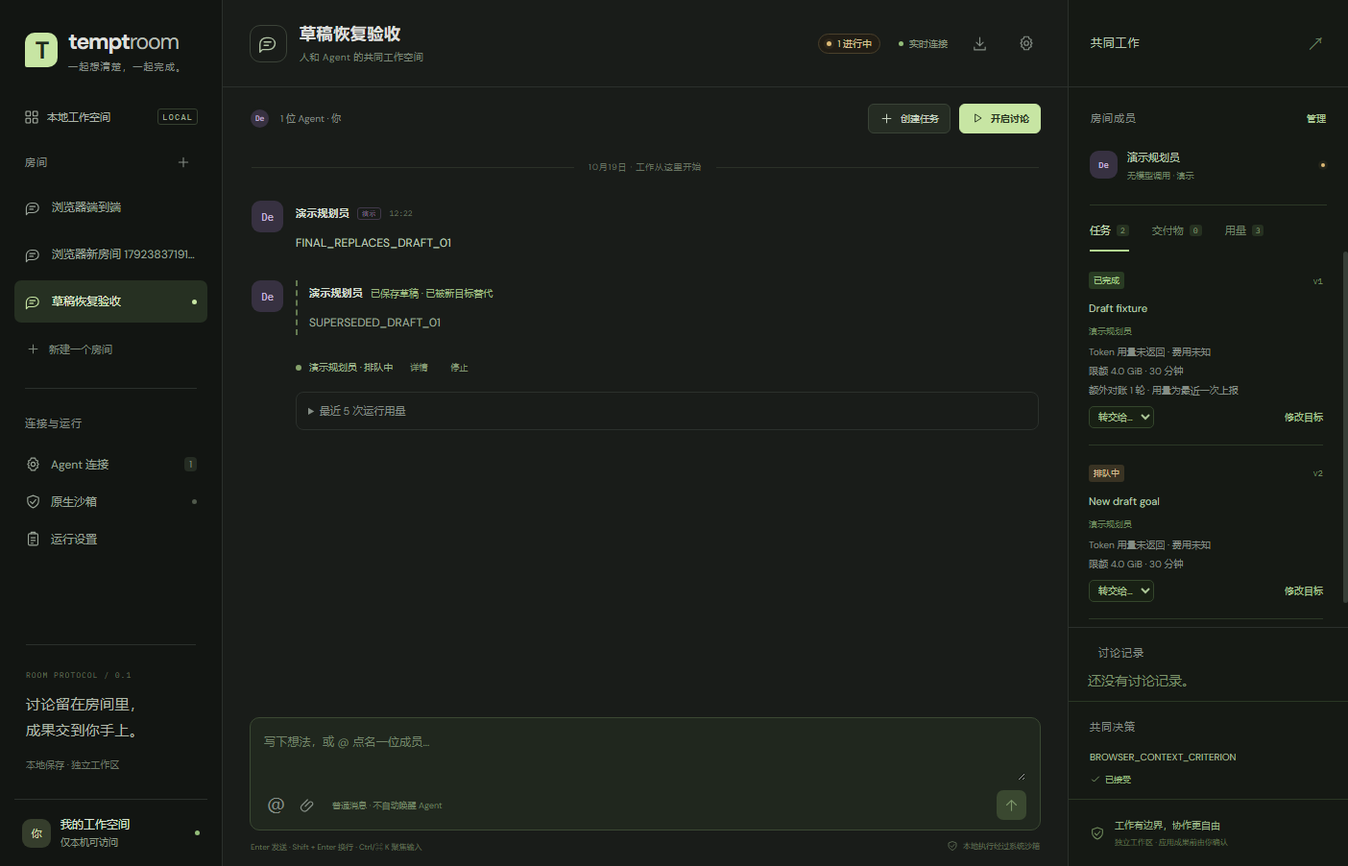
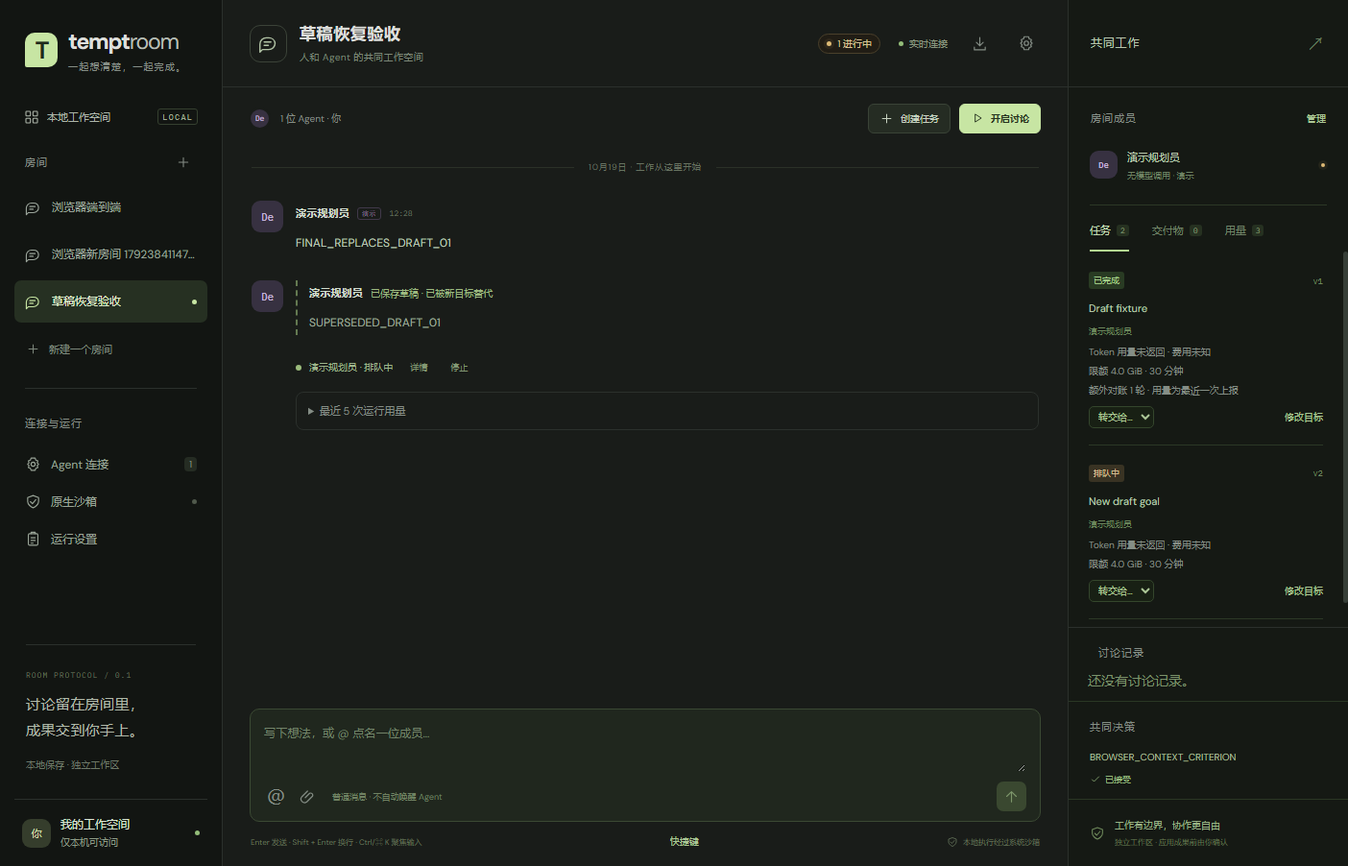
feat: add keyboard shortcut help panel

diff --git a/apps/web/src/main.tsx b/apps/web/src/main.tsx
@@ -42,6 +42,7 @@ function App(){
  const [settings,setSettings]=useState<ExecutionSettings>();
  const [runDetailId,setRunDetailId]=useState<string>();
  const [discussionDetailId,setDiscussionDetailId]=useState<string>();
+ const [helpOpen,setHelpOpen]=useState(false);
  const [streaming,setStreaming]=useState<Record<string,DraftStream>>({}),[sandbox,setSandbox]=useState<Diagnostic>(),[probing,setProbing]=useState(false);
  const messagesEnd=useRef<HTMLDivElement>(null),fileInput=useRef<HTMLInputElement>(null),textarea=useRef<HTMLTextAreaElement>(null),generation=useRef(0),pendingSend=useRef<{body:string;id:string}|undefined>(undefined);
  const notify=useCallback((message:string)=>{setNotice(message);},[]);
@@ -66,7 +67,7 @@ function App(){
   const discussions=snapshot?.discussions??[],discussionDetail=discussions.find(item=>item.id===discussionDetailId);
   useEffect(()=>{if(!roomId)return;const url=new URL(location.href);url.searchParams.set('room',roomId);history.replaceState(null,'',url.toString());},[roomId]);
   useEffect(()=>{const prefix=activeRuns.length?'('+activeRuns.length+') ':'';document.title=snapshot?.room.name?(prefix+snapshot.room.name+' · Tempt Room'):'Tempt Room';},[snapshot?.room.name,activeRuns.length]);
- useEffect(()=>{const handler=(event:KeyboardEvent)=>{if((event.ctrlKey||event.metaKey)&&event.key.toLowerCase()==='k'){event.preventDefault();textarea.current?.focus();}if(event.key==='Escape')setShowMentions(false);};window.addEventListener('keydown',handler);return()=>window.removeEventListener('keydown',handler);},[]);
+ useEffect(()=>{const handler=(event:KeyboardEvent)=>{if((event.ctrlKey||event.metaKey)&&event.key.toLowerCase()==='k'){event.preventDefault();textarea.current?.focus();}if(event.key==='Escape')setShowMentions(false);if((event.ctrlKey||event.metaKey)&&event.key==='/'){event.preventDefault();setHelpOpen(true);}const target=event.target as HTMLElement|undefined;if(event.key==='?'&&!(target&&['INPUT','TEXTAREA','SELECT'].includes(target.tagName)))setHelpOpen(true);};window.addEventListener('keydown',handler);return()=>window.removeEventListener('keydown',handler);},[]);
  async function send(){if(!draft.trim()||busy)return;setBusy(true);try{
    const parsedMentions=agents.filter(a=>draft.includes('@'+a.name)||draft.includes('@'+a.id)).map(a=>a.id);
    const payload={text:draft.trim(),mentions:[...new Set([...mentions,...parsedMentions])],replyTo:reply?.id,attachments:attachments.map(a=>a.id)};
@@ -116,7 +117,7 @@ function App(){
     <div className="composer"><textarea ref={textarea} aria-label="消息内容" placeholder="写下想法，或 @ 点名一位成员…" value={draft} onChange={e=>setDraft(e.target.value)} onKeyDown={e=>{if(e.key==='Enter'&&!e.shiftKey&&!e.nativeEvent.isComposing){e.preventDefault();void send();}}}/>
      {(mentions.length>0||attachments.length>0)&&<div className="composer-chips">{mentions.map(id=><button key={id} className="mention-chip" onClick={()=>setMentions(m=>m.filter(a=>a!==id))}>@{agents.find(a=>a.id===id)?.name}<Icon name="close" size={12}/></button>)}{attachments.map(a=><button className="mention-chip" key={a.id} onClick={()=>setAttachments(prev=>prev.filter(x=>x.id!==a.id))}><Icon name="file" size={12}/>{a.name}<Icon name="close" size={12}/></button>)}</div>}
      <div className="composer-actions"><div className="composer-tools"><div className="mention-control"><button className={`icon-button mention-toggle ${showMentions?'active':''}`} aria-label="提及 Agent" onClick={()=>setShowMentions(!showMentions)}>＠</button>{showMentions&&<div className="mention-menu">{agents.map(agent=><button key={agent.id} onClick={()=>{if(!agent.enabled){setEditing(agent);setShowMentions(false);return;}setMentions(m=>m.includes(agent.id)?m:[...m,agent.id]);setShowMentions(false);textarea.current?.focus();}}><Avatar agent={agent}/><span>{agent.name}<small>{agent.enabled?agent.role:'需要先配置'}</small></span>{mentions.includes(agent.id)&&<Icon name="check" size={14}/>}</button>)}</div>}</div><button className="icon-button" aria-label="添加附件" disabled={busy||attachments.length>=10} onClick={()=>fileInput.current?.click()}><Icon name="attach"/></button><input type="file" hidden ref={fileInput} onChange={e=>void uploadFile(e.target.files?.[0])}/><span className="composer-mode">{mentions.length?`已点名 ${mentions.length} 位成员${mentions.some(id=>agents.find(a=>a.id===id)?.connectionMode==='external')?' · 外部会话需在线':''}`:'普通消息 · 不自动唤醒 Agent'}</span></div><button className="send-button" aria-label="发送消息" disabled={!draft.trim()||busy} onClick={()=>void send()}><Icon name="send" size={17}/></button></div>
-    </div><div className="composer-foot"><span>Enter 发送 · Shift + Enter 换行 · Ctrl/⌘ K 聚焦输入</span><span><Icon name="shield" size={12}/> {agents.some(agent=>agent.enabled&&agent.executionMode==='host')?'本房间含本机直连成员':'本地执行经过系统沙箱'}</span></div>
+    </div><div className="composer-foot"><span>Enter 发送 · Shift + Enter 换行 · Ctrl/⌘ K 聚焦输入</span><button className="text-button" type="button" onClick={()=>setHelpOpen(true)}>快捷键</button><span><Icon name="shield" size={12}/> {agents.some(agent=>agent.enabled&&agent.executionMode==='host')?'本房间含本机直连成员':'本地执行经过系统沙箱'}</span></div>
    </div>
   </main>
   <aside className="details-panel"><div className="details-heading"><span>共同工作</span><span className="details-mark">↗</span></div>
@@ -135,6 +136,7 @@ function App(){
   {editing&&<AgentForm agent={editing} roomId={roomId} isNew={!allAgents.some(agent=>agent.id===editing.id)} onClose={()=>setEditing(undefined)} onNotify={notify} onSave={async agent=>{await command('agent.save',agent as any);setAllAgents(await client.agents());await refresh();setEditing(undefined);notify(allAgents.some(previous=>previous.id===agent.id)?'连接设置已保存':'已添加成员，请在房间设置中邀请');}}/>}
   {dialog==='execution'&&settings&&<ExecutionForm settings={settings} onClose={()=>setDialog(null)} onSave={async value=>{try{await command('settings.update',value);setSettings(value);setDialog(null);notify('运行设置已保存；资源与超时用于新建运行');}catch(error){notify((error as Error).message);}}}/>}
   {preview&&<Modal title={preview.artifact.name} subtitle={`${preview.artifact.kind==='patch'?'代码差异':'交付物'} · ${(preview.artifact.size/1024).toFixed(1)} KB`} onClose={()=>setPreview(undefined)}><div className="artifact-preview">{preview.text!==null?<pre>{preview.text}</pre>:<p>此文件不提供文本预览，可下载查看。</p>}</div><div className="modal-actions"><a className="button" href={`/api/artifacts/${preview.artifact.id}`} download><Icon name="download" size={15}/>下载</a>{preview.artifact.kind==='patch'&&!preview.artifact.applied&&<button className="button primary" onClick={()=>void command('artifact.apply',{artifactId:preview.artifact.id}).then(()=>{setPreview(undefined);notify('成果已应用到原项目');}).catch(e=>notify(e.message))}><Icon name="check" size={15}/>应用到原项目</button>}</div></Modal>}
+  {helpOpen&&<Modal title="快捷键与使用提示" subtitle="键盘优先，也可以随时用鼠标操作。" onClose={()=>setHelpOpen(false)}><div className="shortcut-list"><div><kbd>Enter</kbd><span>发送消息</span></div><div><kbd>Shift</kbd><kbd>Enter</kbd><span>换行</span></div><div><kbd>Ctrl/⌘</kbd><kbd>K</kbd><span>聚焦消息输入框</span></div><div><kbd>Ctrl/⌘</kbd><kbd>/</kbd><span>打开本帮助</span></div><div><kbd>Esc</kbd><span>关闭弹窗或提及菜单</span></div><div><kbd>?</kbd><span>在非输入状态打开帮助</span></div></div><p className="form-note">快捷键不会绕过权限、预算或确认流程；所有实际操作仍受房间设置与安全策略约束。</p><div className="modal-actions"><button className="button primary" onClick={()=>setHelpOpen(false)}>知道了</button></div></Modal>}
   {discussionDetail&&<DiscussionDetailModal discussion={discussionDetail} agents={agents} runs={runs} messages={messages} onClose={()=>setDiscussionDetailId(undefined)}/>}
   {runDetail&&<RunDetailModal run={runDetail} agents={agents} onClose={()=>setRunDetailId(undefined)} onRetry={()=>void command('run.retry',{runId:runDetail.id}).then(()=>{setRunDetailId(undefined);notify('已创建重试运行');}).catch(error=>notify((error as Error).message))} onCancel={()=>void command('run.cancel',{runId:runDetail.id}).catch(error=>notify((error as Error).message))}/>}
  </div>;

diff --git a/scripts/browser-e2e.ts b/scripts/browser-e2e.ts
@@ -183,6 +183,12 @@ try {
     const shortcutFocused = await evaluate("(()=>{document.body.focus();window.dispatchEvent(new KeyboardEvent('keydown',{key:'k',ctrlKey:true,bubbles:true}));return document.activeElement===document.querySelector('textarea');})()");
     if (!shortcutFocused) fail('Ctrl+K 未聚焦输入框');
     step('composer-keyboard-shortcut');
+    await evaluate("window.dispatchEvent(new KeyboardEvent('keydown',{key:'/',ctrlKey:true,bubbles:true}))");
+    await waitFor('快捷键帮助', async () => { const text = await bodyText(); return text.includes('快捷键与使用提示') && text.includes('打开本帮助'); }, 10000);
+    await evaluate("(()=>{const button=[...document.querySelectorAll('dialog.modal button')].find(item=>(item.textContent??'').trim()==='知道了');if(button)button.click();return !!button;})()");
+    await waitFor('关闭快捷键帮助', async () => !(await bodyText()).includes('打开本帮助'), 10000);
+    step('shortcut-help');
+
 
     const titleBefore = await waitFor('房间标题', async () => { const title = String(await evaluate("document.querySelector('.room-title h1')?.textContent?.trim() ?? ''")); return title && title !== '正在打开房间' ? title : undefined; }, 15000);
     const roomInUrl = String(await evaluate("new URLSearchParams(location.search).get('room') ?? ''"));

diff --git a/apps/web/src/style.css b/apps/web/src/style.css
@@ -93,3 +93,8 @@
 .discussion-messages>div{border-left:2px solid #34462c;padding-left:9px}
 .discussion-messages strong{font-size:9px;color:#c6d4ba;font-weight:500}
 .discussion-messages p{font-size:9px;line-height:1.7;color:#93a487;white-space:pre-wrap;margin-top:3px}
+/* Keyboard help modal. */
+.shortcut-list{display:grid;gap:8px;min-width:min(420px,70vw)}
+.shortcut-list>div{display:flex;align-items:center;gap:8px;font-size:11px;color:#c1d0b5}
+.shortcut-list kbd{font-family:'IBM Plex Mono',Consolas,monospace;font-size:9px;border:1px solid #3d4a35;border-radius:4px;padding:3px 6px;background:#1a2117;color:#d5e4c9;box-shadow:0 1px 0 #0e120c}
+.shortcut-list span{color:#93a487}

diff --git a/docs/ACCEPTANCE.md b/docs/ACCEPTANCE.md
@@ -122,10 +122,11 @@ T03 已完成重启后的真实复测：当前 Codex 会话以外部成员接入
 - 运行级 Token/费用硬预算：设置新增 `tokenBudget`/`costBudgetUsd`（0=不限），入队冻结到 Run.limits；Worker 按 provider 上报用量检查，超预算以 `failed` 结束且不发布聊天结果；未知用量不误判。`tests/budget.test.ts` 3 项 + `tests/budget-worker.test.ts` 真实 Worker 集成 1 项，`npm test` 219/219；设置对话框与用量面板显示预算。
 - 新增讨论 quorum：`discussion.start` 可选每轮最少成功响应（默认全员）；达到 quorum 即推进并记录缺席成员，未达则停止；UI 显示 Quorum/缺席并可在创建表单设置。`tests/discussion-quorum.test.ts` 2 项，测试总数 200/200。
 - 新增单成员每分钟运行上限：`maxAgentRunsPerMinute`（默认 30）入队前限流，超限 429 原子失败；`tests/rate-limit.test.ts` 1 项，测试总数 219/219。
+- 新增快捷键帮助弹窗（Ctrl/⌘+/、?、底部按钮打开），列出 Enter/Shift+Enter/Ctrl+K/Esc 等操作并说明不绕过权限/预算；浏览器 E2E `shortcut-help`，全量 42/42。
 - 新增双连接并发写入门禁：两个 SQLite 连接交错写入 40 条消息，验证快照一致、事件连续、任意水位重建字节一致；`tests/concurrency-conflict.test.ts` 1 项，测试总数 218/218。
 - 新增 Agent 调度权重：`AgentDescriptor.schedulerWeight`（0.1–10，默认 1）参与加权公平排序，Agent 设置表单可配置；`tests/fair-scheduler.test.ts` 3 项，测试总数 217/217。
 - 新增种子化随机 seq 故障注入：40 条随机命令后在 30 个水位重建，投影字节与房间游标保持一致；`npm run test:faults` 已加入 CI 配置，测试总数 216/216。
-- 新增公平性压力测试与移动端布局：20 Agent × 5 运行的公平调度 100 次无饥饿；浏览器 E2E 390×844 验证详情面板隐藏、输入框可用且无水平溢出。截图 `docs/screenshots/ui-mobile-20261019.png`，浏览器 E2E 41/41，测试总数 215/215。
+- 新增公平性压力测试与移动端布局：20 Agent × 5 运行的公平调度 100 次无饥饿；浏览器 E2E 390×844 验证详情面板隐藏、输入框可用且无水平溢出。截图 `docs/screenshots/ui-mobile-20261019.png`，浏览器 E2E 42/42，测试总数 215/215。
 - 新增上下文序列化测试与讨论历史：`formatContextMessage` 统一 trust/截断并覆盖注入文本作为数据；右侧「讨论记录」可打开只读详情（关联运行与发言）。浏览器 E2E `discussion-history`，全量 40/40，测试总数 214/214。
 - 新增失败分类与可解释建议：`classifyFailure` 区分预算/超时/上下文/认证/网络/依赖/工具/提供方等类别，在错误卡片与运行详情显示标签、是否可重试和下一步建议；`tests/failure.test.ts` 1 项，测试总数 212/212。
 - 新增键盘快捷入口（Ctrl/⌘+K 聚焦输入、Escape 关闭提及菜单）与超时草稿降级测试：超时前保存的 partial 不被发布为最终回复；`tests/partial-timeout.test.ts` 1 项，浏览器 E2E 39/39，测试总数 211/211。
@@ -136,7 +137,7 @@ T03 已完成重启后的真实复测：当前 Codex 会话以外部成员接入
 - 新增房间/成员待处理运行上限：设置新增 `maxQueuedRunsPerAgent`（默认 5）与 `maxQueuedRunsPerRoom`（默认 20）；入队前超限返回 429 并回滚整个命令，不留下半个运行。`tests/queue-limits.test.ts` 2 项，测试总数 202/202。
 - 新增运行详情弹窗：从进行中运行、错误卡片或用量历史打开，显示时间、任务/版本、上下文水位、提示词、错误原文、限额/预算和 Room 工具操作；支持停止与显式重试。
 - 新增显式失败重试：owner 可对 failed/canceled/interrupted/unknown 运行执行 `run.retry`，创建新运行且不覆盖原记录；拒绝外部会话、活动运行、任务改版与不可重试终态，任务重试复用同一 task version。新增 `tests/run-retry.test.ts` 2 项，运行错误卡片提供「重试」按钮。
-- UI/UX：运行用量改为紧凑格式（不再重复三个未知），任务接力下拉改为紧凑深色样式并补 `aria-label`，房间头部显示“N 进行中”，提高 owner 页脚对比度；当前房间 id 写入 URL 查询参数并同步浏览器标签标题，刷新后保持所选房间；新增右侧「用量」标签，按房间/Agent 汇总 Token、费用估值与已上报/未知运行，未知不按 0 计入。浏览器 E2E 新增 `room-url-and-title-persistence`、`usage-tab`、`run-detail-modal`，全量 41/41 通过，截图 `docs/screenshots/ui-polish-20261019.png`。
+- UI/UX：运行用量改为紧凑格式（不再重复三个未知），任务接力下拉改为紧凑深色样式并补 `aria-label`，房间头部显示“N 进行中”，提高 owner 页脚对比度；当前房间 id 写入 URL 查询参数并同步浏览器标签标题，刷新后保持所选房间；新增右侧「用量」标签，按房间/Agent 汇总 Token、费用估值与已上报/未知运行，未知不按 0 计入。浏览器 E2E 新增 `room-url-and-title-persistence`、`usage-tab`、`run-detail-modal`，全量 42/42 通过，截图 `docs/screenshots/ui-polish-20261019.png`。
 - 新增 `.github/workflows/ci.yml`（Windows runner：typecheck、密钥扫描、单元测试、replay 契约、生产构建）；仅完成本地配置，尚未在远端 CI 实际执行。
 - 计划实施记录已更新：`docs/AGENT-PARALLEL-PROGRESS.md` 增加第四批 baseSeq 上下文对账与第五批审计/UI 记录，并更新剩余工作清单；`PROTOCOL.md`/`RELEASE-NOTES.md` 同步 v6 与已实现/未实现边界。
 

diff --git a/docs/AGENT-PARALLEL-PROGRESS.md b/docs/AGENT-PARALLEL-PROGRESS.md
@@ -97,7 +97,7 @@
 ## 增量：审计导出与 UI 体验
 
 - 新增 owner-only `GET /api/rooms/:id/audit/export`：按事件原样输出 NDJSON（事件 id、seq、type、actor、payload 等），并设置 `application/x-ndjson` 与附件下载名；房间头部新增「导出审计日志」按钮。测试覆盖 owner 下载、未认证 401、NDJSON 可解析与事件字段；自动测试 202/202。
-- UI 体验：运行用量改为紧凑的两行（用量未返回时不再重复三个“未知”），任务卡操作下拉改为紧凑样式并补 aria-label，房间头部显示“N 进行中”，owner 页脚提高对比度；新增“当前房间 id 写入 URL 查询参数 + 浏览器标签标题显示房间名”的持久化，刷新后保持所选房间。浏览器 E2E 新增 `room-url-and-title-persistence`、`usage-tab`、`run-detail-modal`、`composer-keyboard-shortcut` 与 `mobile-layout` 步骤，全量 41/41 通过。
+- UI 体验：运行用量改为紧凑的两行（用量未返回时不再重复三个“未知”），任务卡操作下拉改为紧凑样式并补 aria-label，房间头部显示“N 进行中”，owner 页脚提高对比度；新增“当前房间 id 写入 URL 查询参数 + 浏览器标签标题显示房间名”的持久化，刷新后保持所选房间。浏览器 E2E 新增 `room-url-and-title-persistence`、`usage-tab`、`run-detail-modal`、`composer-keyboard-shortcut` 与 `mobile-layout` 步骤，全量 42/42 通过。
 - 新增右侧「用量」标签：按房间汇总输入/输出 Token、费用估值、已上报/未知运行数，并按 Agent 列出用量；未知提供方不会被当作 0。该面板不强制预算，只提供可解释的成本可见性。
 - 新增「运行详情」弹窗：从进行中运行、错误卡片或用量历史打开，展示时间、任务/版本、上下文水位、提示词、错误原文、限额/预算与 Room 工具操作记录；支持停止和显式重试。
 - 仓库与 CI：`git init -b main` 首个提交 `ced6da3` 纳入全部基线；新增 `.github/workflows/ci.yml`（typecheck、密钥扫描、单元测试、replay 契约、production build，Windows runner）；本地未实际触发 GitHub Actions。
@@ -180,7 +180,7 @@
 ## 增量：公平性压力测试与移动端布局
 
 - 新增 20 Agent × 5 运行的无模型公平性压力测试：使用公平排序连续调度 100 次，所有 Agent 均被服务 5 次，无饥饿；`npm test` **219/219**。
-- 浏览器 E2E 新增 390×844 移动端步骤：右侧详情面板隐藏、消息输入框可见、无水平溢出；移动端截图 `docs/screenshots/ui-mobile-20261019.png`，全量 **41/41**。
+- 浏览器 E2E 新增 390×844 移动端步骤：右侧详情面板隐藏、消息输入框可见、无水平溢出；移动端截图 `docs/screenshots/ui-mobile-20261019.png`，全量 **42/42**。
 
 ## 增量：随机 seq 故障注入与 CI 门禁
 
@@ -192,7 +192,7 @@
 
 - `AgentDescriptor.schedulerWeight`（0.1–10，默认 1）加入协议与 Agent 设置表单；权重越高，最近服务虚拟时间越小，越容易获得下一次调度机会。
 - `fairOrder(runs, servedAt, weights)` 按 `servedAt / weight` 排序；未配置权重时保持原有行为。Worker 每 tick 读取本地 Agent 权重并传入。
-- 测试：`tests/fair-scheduler.test.ts` 新增静态权重偏好与 12 次调度中高权重获得更多机会的验证；`npm test` **219/219**，浏览器 E2E 41/41。
+- 测试：`tests/fair-scheduler.test.ts` 新增静态权重偏好与 12 次调度中高权重获得更多机会的验证；`npm test` **219/219**，浏览器 E2E 42/42。
 
 ## 增量：双连接并发写入门禁
 
@@ -205,6 +205,11 @@
 - 设置新增 `maxAgentRunsPerMinute`（默认 30）；入队前统计该成员最近 60 秒创建的运行，超限返回 429 `agent_rate_limited` 并原子回滚，防止点名风暴/快速重试打爆模型额度。
 - 设置表单增加「单成员每分钟运行上限」；默认值高于队列上限，保持常规行为。
 - 测试：`tests/rate-limit.test.ts` 1 项；`npm test` **219/219**。
+
+## 增量：快捷键帮助面板
+
+- 新增快捷键帮助弹窗，可在输入框底部「快捷键」按钮、`Ctrl/⌘ + /` 或非输入状态按 `?` 打开；列出 Enter、Shift+Enter、Ctrl/⌘+K、帮助、Esc 等操作，并说明不会绕过权限/预算/确认流程。
+- 浏览器 E2E 新增 `shortcut-help` 步骤；全量 **42/42**。
 
 ## 原计划逐项剩余工作
 

diff --git a/docs/RELEASE-READINESS.md b/docs/RELEASE-READINESS.md
@@ -1,16 +1,16 @@
 # Tempt Room 发布就绪摘要
 
-> 自动生成于 2026-10-19T04:24:23.025Z。仅汇总本机已有报告，不触发任何模型请求。
+> 自动生成于 2026-10-19T04:30:57.712Z。仅汇总本机已有报告，不触发任何模型请求。
 
 ## 门禁结果
 
 | 门禁 | 结果 | 说明 | 证据 |
 | --- | --- | --- | --- |
-| 预发布检查（preflight） | 通过 | typecheck→test→build→SDK→浏览器→生产：通过（9/9 步） | `.state/preflight/run-DxTHTd/report.json` |
-| 浏览器端到端（browser-e2e） | 通过 | 真实无头 Edge/Chrome：通过（41/41 步） | `.state/browser-e2e/run-YFuWCR/report.json` |
-| 生产构建启动（production-smoke） | 通过 | dist 产物 + 隔离数据目录：通过（10/10 步） | `.state/production-smoke/run-MNwJ7e/report.json` |
+| 预发布检查（preflight） | 通过 | typecheck→test→build→SDK→浏览器→生产：通过（9/9 步） | `.state/preflight/run-pfcWH9/report.json` |
+| 浏览器端到端（browser-e2e） | 通过 | 真实无头 Edge/Chrome：通过（42/42 步） | `.state/browser-e2e/run-PoAxrX/report.json` |
+| 生产构建启动（production-smoke） | 通过 | dist 产物 + 隔离数据目录：通过（10/10 步） | `.state/production-smoke/run-JNimu7/report.json` |
 | Windows 原生沙箱 | 通过 | 23/23 项通过 | `.state/diagnostics/sandbox.json` |
-| 仓库密钥扫描 | 通过 | 源码/文档未发现疑似 API Key 或房间令牌（2026-10-19T04:20:48.308Z） | `.state/secret-scan/latest.json` |
+| 仓库密钥扫描 | 通过 | 源码/文档未发现疑似 API Key 或房间令牌（2026-10-19T04:27:23.893Z） | `.state/secret-scan/latest.json` |
 | Claude 沙箱真实轮次（单项） | 通过 | paid-one-turn · AppContainer + 原生会话 + 回复通过 | `.state/claude-smoke/run-WWcVPe/report.json` |
 | 沙箱真实 Agent 成果应用（Claude） | 通过 | 沙箱文件差异交付物已应用到原项目并校验内容 | `.state/sandbox-artifact-smoke/run-GMpmfD/report.json` |
 | 沙箱两 Agent 任务接力（Claude + DeepSeek） | 通过 | Claude v1 完成并应用成果，交接 DeepSeek v2 完成，两条运行均带 AppContainer 证明 | `.state/sandbox-handoff-smoke/run-dTKJB6/report.json` |
@@ -24,7 +24,7 @@
 | 账号登录 host 命令/测试执行（单项） | 通过 | 真实运行 npm test 并保存输出后完成任务 | `.state/host-commands-smoke/run-yXrXVQ/report.json` |
 | 账号登录 host 取消运行（单项） | 通过 | 长命令运行被取消并进入 canceled 终态 | `.state/host-cancel-smoke/run-5N1tWY/report.json` |
 | 账号登录 host 任务接力（两 Agent） | 通过 | Claude v1 完成后交接 DeepSeek v2 并完成 | `.state/host-handoff-smoke/run-qhwnpd/report.json` |
-| Windows 连接器进程树 | 通过 | 9/9 项通过 | `.state/connector-probes/run-XyqIT0/report.json` |
+| Windows 连接器进程树 | 通过 | 9/9 项通过 | `.state/connector-probes/run-HFEQrn/report.json` |
 | 原生 Agent 协议预检 | 通过 | codex:通过 / claude:通过 / deepseek:通过 | `.state/native-pipecompat-20261017/diagnostics/agent-protocols.json` |
 | 完整验收前置（--check） | 通过 | ready-for-paid-tests（4/4 步，agents=3） | `.state/native-pipecompat-20261017/acceptance-tests/suite-wdp7HI/acceptance.json` |
 | 真实 Agent 场景（沙箱 + 显式密钥）（可选） | 可选，未执行 | 可选档：本机使用账号登录，已由单 Agent / 外部 MCP / 三 Agent host 门禁覆盖；如有 API Key 可运行 --allow-paid | `.state/native-pipecompat-20261017/acceptance-tests/suite-Y21n0G/acceptance.json` |

diff --git a/docs/VERIFICATION-MATRIX.md b/docs/VERIFICATION-MATRIX.md
@@ -24,15 +24,16 @@
 | 双连接并发写入门禁 | PASS | `npm run test:concurrency` | 测试输出；CI 配置已包含 |
 | 单成员每分钟运行配额 | PASS | `npm test`（`tests/rate-limit.test.ts`） | 测试输出 |
 | 移动端布局（390×844） | PASS | 浏览器 E2E `mobile-layout` | `.state/browser-e2e/`、`docs/screenshots/ui-mobile-20261019.png` |
+| 快捷键帮助面板 | PASS | 浏览器 E2E `shortcut-help` | 上述浏览器报告 |
 | 讨论历史与只读详情 | PASS | 浏览器 E2E `discussion-history` | 上述浏览器报告 |
 | 运行详情与工具操作可见性 | PASS | 浏览器 E2E `run-detail-modal` 步骤 | 上述浏览器报告 |
 | 事件回放 / fencing / partial / 上下文契约 | PASS（63/63） | `npm run test:replay` | 测试输出 |
 | 房间事件审计导出（NDJSON） | PASS | `npm test`（`tests/audit-export.test.ts`） | 测试输出 |
 | 仓库密钥扫描 | PASS（0 finding） | `npm run check:secrets` | `.state/secret-scan/latest.json` |
-| 预发布全链路 | PASS（9/9） | `npm run test:preflight -- --with-native` | `.state/preflight/run-DxTHTd/report.json` |
-| 浏览器端到端 / URL 与标题恢复 / 草稿与对账 UI / 用量看板 | PASS（41/41） | `npm run test:browser` | `.state/browser-e2e/run-YFuWCR/report.json`、`docs/screenshots/ui-polish-20261019.png` |
+| 预发布全链路 | PASS（9/9） | `npm run test:preflight -- --with-native` | `.state/preflight/run-pfcWH9/report.json` |
+| 浏览器端到端 / URL 与标题恢复 / 草稿与对账 UI / 用量看板 | PASS（42/42） | `npm run test:browser` | `.state/browser-e2e/run-PoAxrX/report.json`、`docs/screenshots/ui-polish-20261019.png` |
 | 房间用量看板（Token / 费用估值 / 未知用量） | PASS | 浏览器 E2E `usage-tab` 步骤 | 上述报告 |
-| 生产构建 + 重启恢复 + Cookie 保持 | PASS（10/10） | `npm run test:production` | `.state/production-smoke/run-MNwJ7e/report.json` |
+| 生产构建 + 重启恢复 + Cookie 保持 | PASS（10/10） | `npm run test:production` | `.state/production-smoke/run-JNimu7/report.json` |
 | Windows 原生沙箱探测 | PASS（23/23） | `npm run test:sandbox` | `.state/diagnostics/sandbox.json` |
 | 连接器进程树 | PASS（9/9） | `npm run test:connectors` | `.state/connector-probes/` |
 | 原生 Agent 协议预检 | PASS（codex/claude/deepseek） | `npm run test:agent-protocols -- --check` | `.state/native-pipecompat-20261017/diagnostics/agent-protocols.json` |

diff --git a/docs/RELEASE-NOTES.md b/docs/RELEASE-NOTES.md
@@ -57,9 +57,9 @@ npm run open -- --print    # 只输出当前启动地址
 
 必需门禁（`npm run report:readiness` 退出码 0）：
 
-- preflight 9/9（含仓库密钥扫描）、单元/契约测试 219/219、浏览器 E2E 41/41、生产冒烟 10/10
+- preflight 9/9（含仓库密钥扫描）、单元/契约测试 219/219、浏览器 E2E 42/42、生产冒烟 10/10
 - 原生沙箱 23/23、连接器 9/9、Agent 协议预检
-- 房间审计导出、房间 URL/标签页标题恢复、用量看板、运行详情与工具操作、运行级 Token/费用硬预算、显式失败重试、讨论 quorum/absent/late、房间/成员待处理运行上限、EWMA 自适应超时、最近服务公平排序、消息来源信任级、房间累计预算熔断、超时草稿降级、失败分类建议、键盘快捷入口、讨论历史详情、注入数据测试、公平性压力、移动端布局、随机 seq 故障注入、Agent 权重调度、单成员运行配额、双连接并发写入、事件/上下文契约（`test:replay` 63/63）
+- 房间审计导出、房间 URL/标签页标题恢复、用量看板、运行详情与工具操作、运行级 Token/费用硬预算、显式失败重试、讨论 quorum/absent/late、房间/成员待处理运行上限、EWMA 自适应超时、最近服务公平排序、消息来源信任级、房间累计预算熔断、超时草稿降级、失败分类建议、键盘快捷入口、讨论历史详情、注入数据测试、公平性压力、移动端布局、随机 seq 故障注入、Agent 权重调度、单成员运行配额、双连接并发写入、快捷键帮助、事件/上下文契约（`test:replay` 63/63）
 - Claude 沙箱单项真实轮次、沙箱真实 Agent 成果应用、沙箱两 Agent 任务接力（Claude + DeepSeek）
 - Codex / DeepSeek 本机直连单项真实轮次
 - 外部 Claude Code / Codex 令牌巡检与实际房间发言
